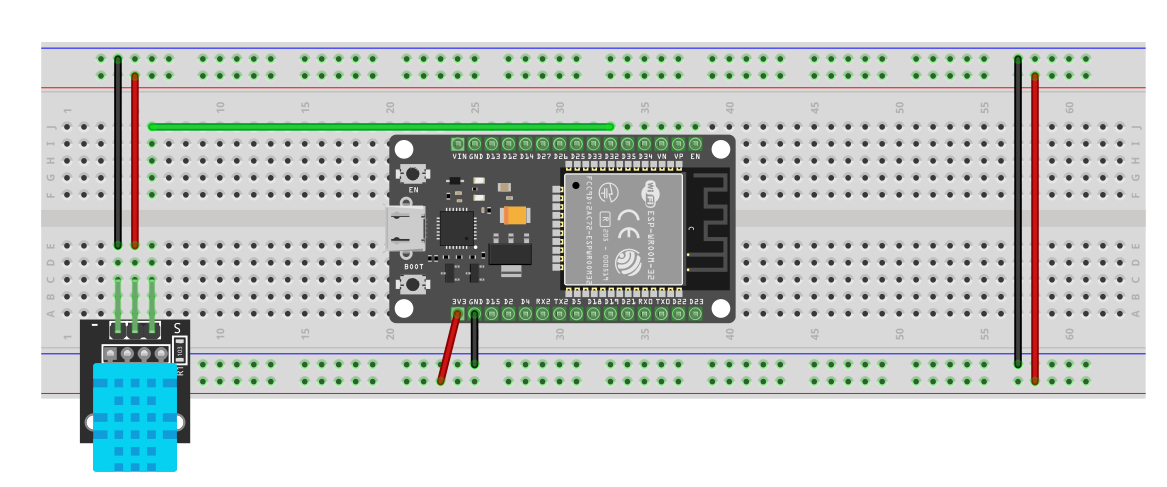
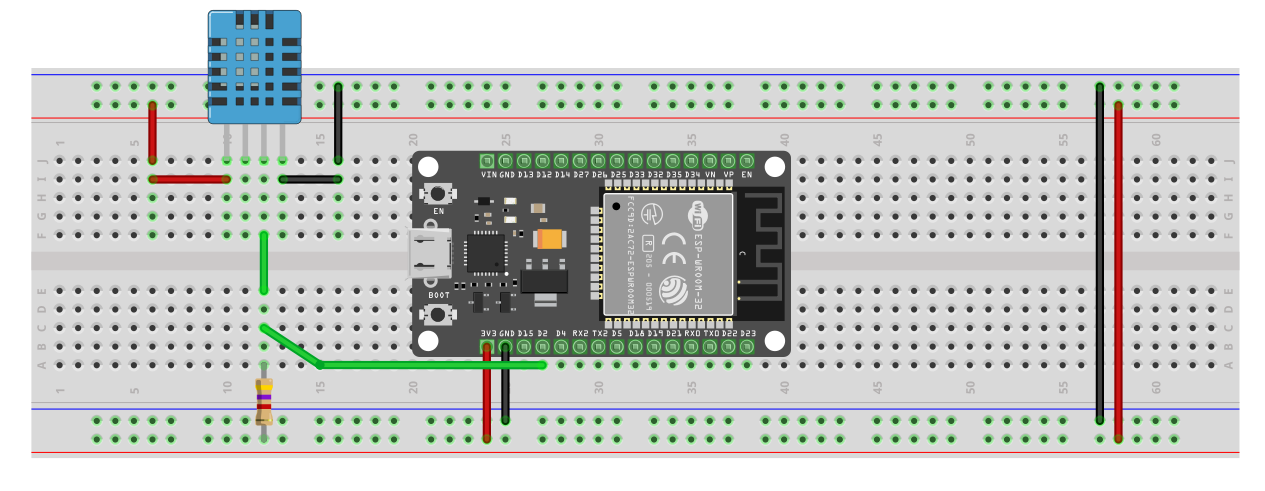
Falta prueba final

diff --git a/README.md b/README.md
@@ -133,9 +133,9 @@ Para ver el panel de Node-red, en el navegador de la computadora se debe acceder
 ![](/imagenes/nodered3.png)
 
 Para comprobar que Node-Red y MQTT están conectados de forma correcta, se utilizaron los siguientes nodos que se pueden encontrar en la parte izquierda del panel de Node-Red:
-- `mqtt in` que se encuentra en network.
-- `debug` que se encuentra en common. 
-- `chart` que se encuentra en dashboard. 
+- `mqtt in` que se encuentra en `network`. Permite recibir los mensajes que llegan a un tópico de MQTT.
+- `debug` que se encuentra en `common`. Sirve para poder visualizar los mensajes que llegan o salen de un nodo en específico. 
+- `chart` que se encuentra en `dashboard`. Permite graficar valores numéricos que le lleguen como mensaje. 
 
 Como se acaban de colocar, aparecerá un triángulo rojo encima de los nodos, lo que indica que no están configurados, como se muestra en la imagen. 
 
@@ -155,7 +155,7 @@ El siguiente nodo a configurar es `chart`, el cual es muy sencillo, ya que no de
 
 ![](/imagenes/nodered7.png)
 
-Luego de que todo esté configurado, la última parte es conectar los nodos, lo cual es muy sencillo, al acercar el ratón a los pequeños cuadrados que se encuentran a los lados de los nodos se iluminarán de color naranja, damos click y solamente es cuestión de arrastrar hasta el nodo al que se quiera conectar, para esta prueba, las conexiones quedaron como las que se muestran en la imagen. 
+Luego de que todo esté configurado, la última parte es conectar los nodos, lo cual es muy sencillo, al acercar el ratón a los pequeños cuadrados que se encuentran a los lados de los nodos se iluminarán de color naranja, damos click y solamente es cuestión de arrastrar hasta el nodo al que se quiera conectar, para esta prueba, las conexiones quedaron como las que se muestran en la imagen. ***Importante: No olvidar presionar `Deploy` al terminar de realizar las conexiones.***
 
 ![](/imagenes/nodered8.png)
 
@@ -196,7 +196,7 @@ En caso de que no aparezca el gestor mencionada, se deberá ingresar a `Archivo 
 
 El siguiente paso es instalar la librería `PubSubClient`, la cual servirá para la conexión con MQTT, para ello debemos de ir a `Programa -> Incluir Librería -> Administrar Bibliotecas`, en donde debemos de buscar PubSubClient e instalar la creada por `Nick O'Leary`.
 
-![](./imagenes/libreria1.png)
+![](/imagenes/libreria1.png)
 
 Otra librería a instalar es la `DHT`, ya que es la que facilita la lectura del sensor que se va utilizar, para ello, estando en `Administrar Bibliotecas`, buscamos DHT e instalamos la que se muestra en la imagen. 
 
@@ -231,20 +231,67 @@ Una vez hechas las configuraciones, solamente queda presionar el botón de subir
 
 Para visualizar las mediciones se debe ir a `Herramienta -> Monitor Serie` y ahí asegurarse de que la velocidad que se encuentra en la parte inferior se encuentre en `9600`, si todo está correcto, deben aparecer mediciones como se muestra en la imagen. 
 
-***Colocar imagen del monitor serie del sensor***
+![](/imagenes/esp32Serie.png)
 
 
-# Prueba de Node-Red, MQTT y ESP-32
+# Prueba de Node-Red, MQTT, ESP32 y DHT11
 
-En el repositorio se encuentra el archivo `dht11-mqtt.ino`, en el cual se conecta al servidor MQTT que se encuentra en la BeagleBone y le envía el valor leído por el sensor DHT11 que se encuentra conectado a la ESP32 cada 5 segundos. Las conexiones con el sensor fueron las mismas que para las usadas en el apartado de `Prueba Sensor DTH11`.
+En el repositorio se encuentra el archivo `dht11-mqtt.ino`, en el cual se conecta al servidor MQTT que se encuentra en la BeagleBone y le envía el valor de temperatura y humedad leído por el sensor DHT11 cada 2 segundos, además, si recibe una orden de `on` u `off`, enciende o apaga un LED conectado al GPIO-4. El esquemático usado se muestra en la siguiente imagen.
 
-En el código, las partes importantes a modificar son dos, la primera corresponde al nombre y contraseña de la red inalámbrica que se va a conectar la placa, lo cual se debe de colocar en `ssid` y `password`. La segunda parte a modificar son del servidor MQTT, en `mqttBrocker` se debe colocar la dirección IP de la BeagleBone (192.168.1.200 en este caso), en `topic` se debe colocar `test`, en `mqttUsername` se puede colocar cualquiera, como no se colocó contraseña, `mqttPassword` se queda vacío y en `mqttPort` se coloca `1883`.
+![](/imagenes/final-proto.png)
 
-![](/imagenes/esp4.png)
+En el código, las partes importantes a modificar son dos, la primera corresponde al nombre y contraseña de la red inalámbrica que se va a conectar la placa, lo cual se debe de colocar en `ssid` y `password`. La segunda parte a modificar son del servidor MQTT, en `mqttBroker` se debe colocar la dirección IP de la BeagleBone (192.168.1.200 en este caso), en `mqttUsername` se puede colocar cualquiera, como no se colocó contraseña`mqttPassword` se queda vacío y en `mqttPort` se coloca `1883`. En cuanto a los tópicos, se necesitan de tres para la prueba final, uno para temperatura, otro para humedad y el último para el control del LED, se le colocaron los nombres de `esp32/temp`, `esp32/hum` y `esp32/out`, respectivamente, pero se le pueden cambiar de nombre, solo es importante que en Node-Red, las entradas y salidas MQTT tengan el mismo tópico que los colocados. 
+
+![](/imagenes/final-mqttArduino.png)
+
+Pasando de nuevo a Node-Red, se requiere graficar los valores de humedad y temperatura, por lo que la primer parte es colocar los nodos que se encuentran en los siguientes apartados. 
+
+- `mqtt in` que se encuentra en `network` X2.
+- `debug` que se encuentra en `common` X2. 
+- `chart` que se encuentra en `dashboard` X2. 
+
+Los nodos quedaron conectados como se muestra en la siguiente imagen, las configuraciones son idénticas a las que se explicaron en el apartado `Prueba de conexión de MQTT y Node-Red`, solamente se debe de colocar en `Topic`: `esp32/temp` y `esp32/hum`. La configuración de los `charts` fue solamente colocar `Temperature` y `Humidity` en el apartado de `Label`, para poder identificar la gráfica de las dos variables más fácilmente. 
+
+![](/imagenes/final-charts.png)
+
+La siguiente parte fue poder controlar el LED de acuerdo a la lectura de la temperatura recibida, para eso se hizo uso de los siguientes nodos: 
+
+- `switch` que se encuentra en `function`. Permite redirigir los valores de acuerdo al mensaje de entrada que recibe y a las condicionales que se le indican. 
+- `change` que se encuentra en `function` X2. Permite enviar un mensaje(se puede configurar el tipo de mensaje)cuando recibe algo a la entrada.
+- `filter` que se encuentra en `function` X2. Permite bloquear que pase un mensaje de acuerdo a varias condicionales, por ejemplo, si no ocurre un cambio.
+- `text` que se encuentra en `dashboard`. Permite visualizar un mensaje. 
+- `mqtt out` que se encuentra en `network`. Permite publicar algo en un tópico de MQTT. 
+- `debug` que se encuentra en `common`. 
+
+La configuración de los nodos se muestra en la siguiente imagen. 
+
+![](/imagenes/final-filtro.png)
+
+La conexión de nodos resultante se muestra en la imagen siguiente, el funcionamiento es el siguiente, la temperatura que se recibe del nodo `esp32/temp` pasa al `switch`, el que manda el mensaje hacia la `On` si es mayor a 35 y hacia `Off` si es menor o igual a 35. Tanto `On` como `Off` solamente sirven para crear un mensaje (con on u off) para `filter`, que hace la función de bloquear el paso de los mensajes hasta que haya un cambio, así se evita estar enviando repetidamente alguno de los dos mensajes. Finalmente, cuando alguno de los mensajes pasa, se publica en el tópico `esp32/out` y se coloca también en el nodo de `LED`, el cual mostrará si se encuentra encendido o apagado en pantalla.   
+
+![](/imagenes/final-nodosFiltro.png)
+
+Adicionalmente se agregaron los siguientes nodos: 
+
+- `button` que se encuentra en `dashboard` X2. Un botón que se muestra en pantalla para que el usuario realice alguna acción. 
+- `mqtt out` que se encuentra en `network`.
+
+Los dos botones agregados cumplen la función de apagar y encender el LED, esto para casos en los que el usuario requiera realizar esta acción de forma manual, la configuración de los nodos y su conexión se muestra en las siguientes imágenes. 
+
+![](/imagenes/final-nodosBotones.png)
+![](/imagenes/final-botones.png)
+
+La conexión final de todos los nodos se muestra en la siguiente imagen. ***Importante: No olvidar presionar `Deploy` para aplicar los cambios.***
+
+![](/imagenes/final-nodos.png)
+
+Y al ingresar desde el navegador a `192.168.1.200:1885/ui` se debe mostrar lo que se muestra en la siguiente imagen.
+
+![](/imagenes/final-ui.png)
+
+En la siguiente imagen se muestra la conexión en físico del circuito montado en la ESP32. 
+
+Y en la siguiente imagen, se muestra el monitor serie (debe estar colocado a velocidad de 115200 baudios) del Arduino IDE y las gráficas que se van realizando conforme llegan los datos. 
 
 
-
-Una vez subido, se puede abrir un monitor serie (***Asegurarse que la velocidad está en 115200 baudios***) para ir observando los mensajes que se envían al servidor MQTT e ingresar a la dirección `192.168.1.200:1885/ui` en el navegador, donde se podrán observar las mediciones que se van registrando en el ADC en una gráfica, como se muestra en la imagen.  
-
-![](/imagenes/esp6.png)
 
